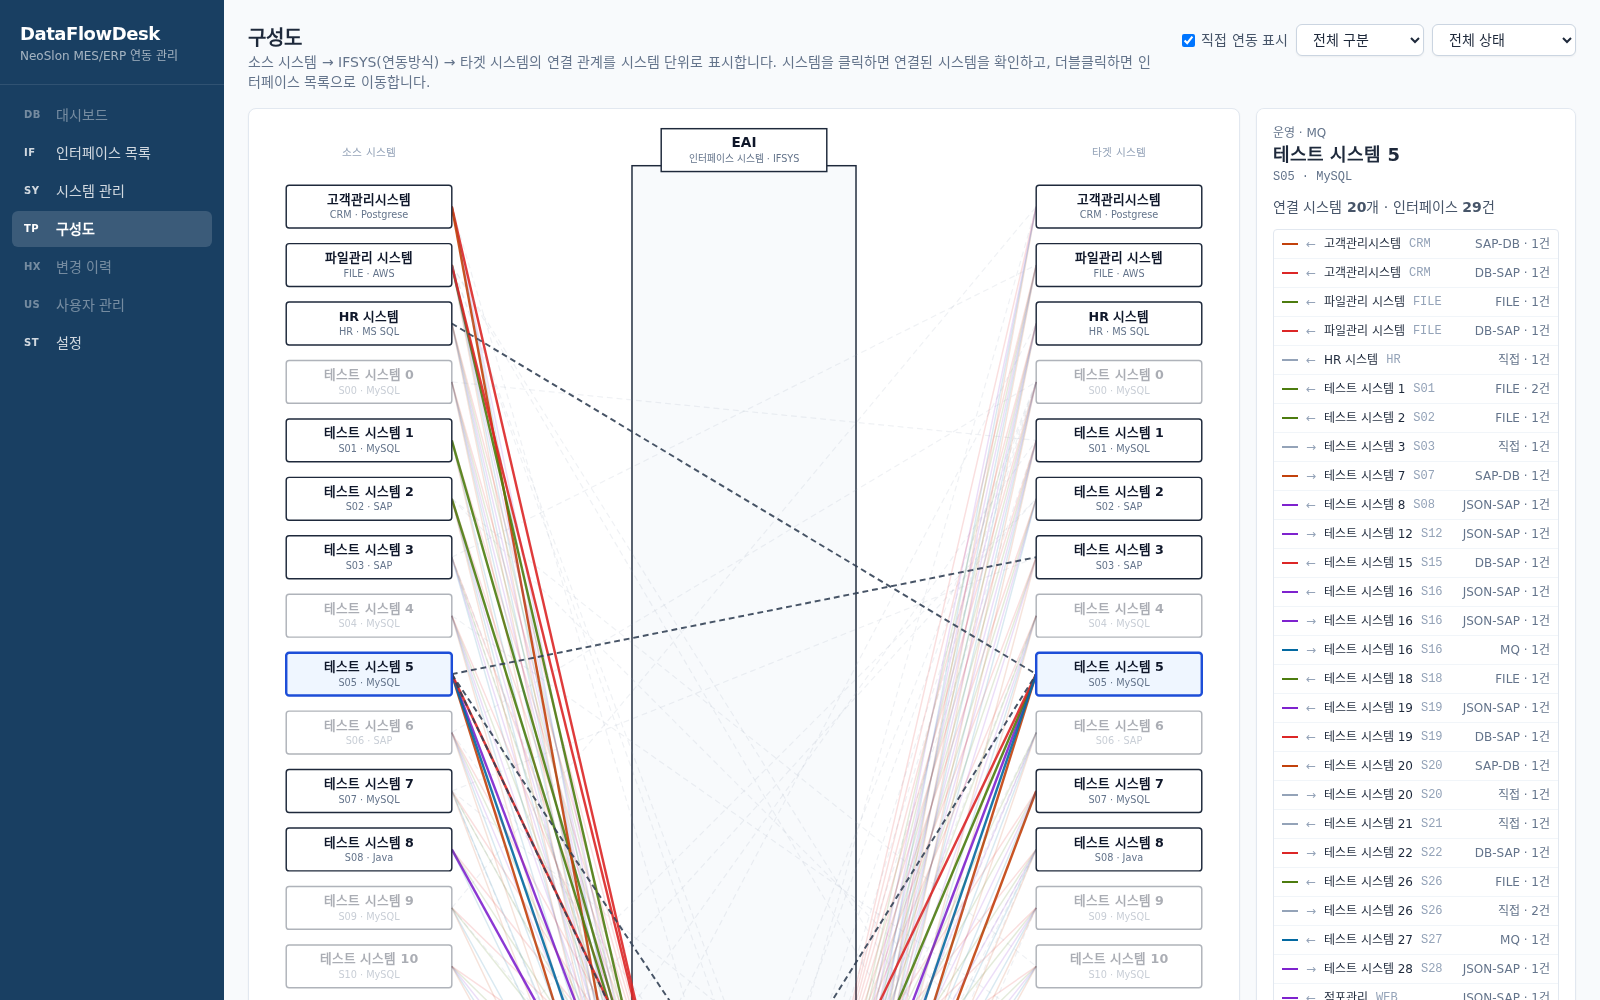
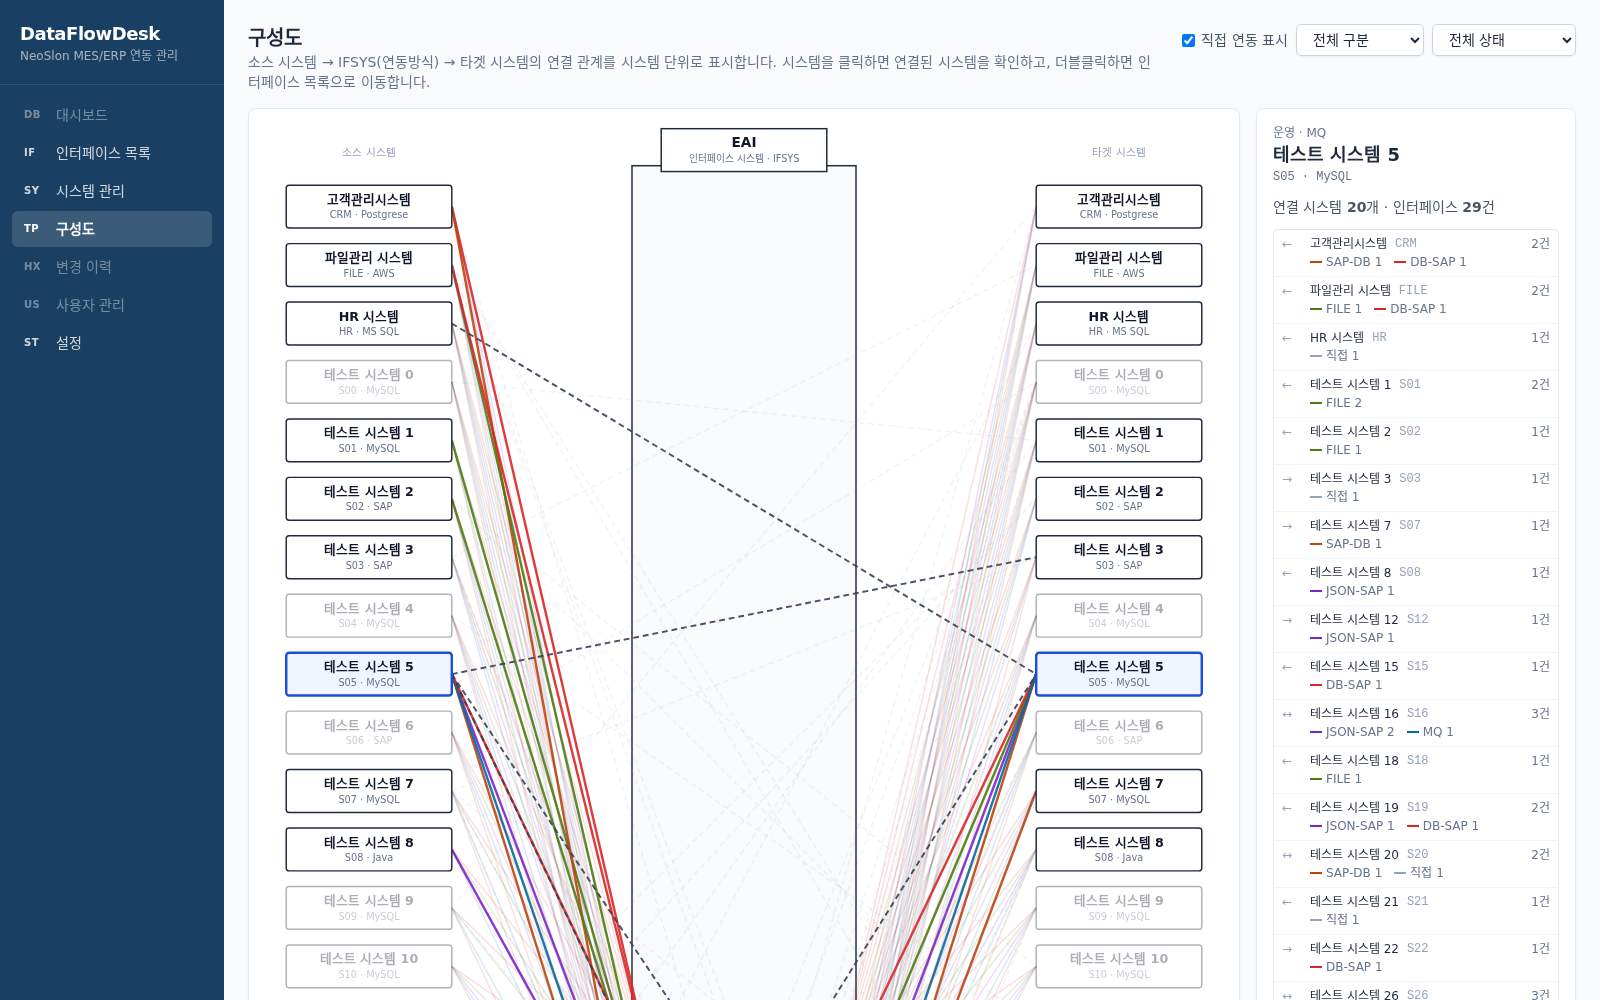
Topology panel: one row per connected system with per-method counts

Changed region(s): [[0.7812, 0.217, 0.9688, 1.0]]

diff --git a/frontend/src/pages/TopologyPage.tsx b/frontend/src/pages/TopologyPage.tsx
@@ -37,19 +37,40 @@ export function TopologyPage() {
   );
   const hasDirect = flows.some((f) => f.method === null);
 
-  /** Connected systems for the selected node, one row per (partner, method). */
+  /** Connected systems for the selected node: one row per partner, methods aggregated. */
   const partners = useMemo(() => {
     if (!selected) return [];
-    return flows
+    const acc = new Map<
+      number,
+      {
+        partner: TopologyNode;
+        outbound: boolean;
+        inbound: boolean;
+        methods: Map<string | null, number>;
+        count: number;
+      }
+    >();
+    flows
       .filter((f) => f.source.id === selected.id || f.target.id === selected.id)
-      .map((f) => ({
-        key: `${f.source.id}|${f.method ?? ''}|${f.target.id}`,
-        outbound: f.source.id === selected.id,
-        partner: f.source.id === selected.id ? f.target : f.source,
-        method: f.method,
-        count: f.count,
-      }))
-      .sort((a, b) => a.partner.system_code.localeCompare(b.partner.system_code));
+      .forEach((f) => {
+        const outbound = f.source.id === selected.id;
+        const partner = outbound ? f.target : f.source;
+        const row = acc.get(partner.id) ?? {
+          partner,
+          outbound: false,
+          inbound: false,
+          methods: new Map<string | null, number>(),
+          count: 0,
+        };
+        row.outbound = row.outbound || outbound;
+        row.inbound = row.inbound || !outbound;
+        row.methods.set(f.method, (row.methods.get(f.method) ?? 0) + f.count);
+        row.count += f.count;
+        acc.set(partner.id, row);
+      });
+    return Array.from(acc.values()).sort((a, b) =>
+      a.partner.system_code.localeCompare(b.partner.system_code),
+    );
   }, [flows, selected]);
 
   return (
@@ -155,22 +176,34 @@ export function TopologyPage() {
                 </div>
               </div>
               <div className="text-slate-600">
-                연결 시스템 <b>{new Set(partners.map((p) => p.partner.id)).size}</b>개 · 인터페이스{' '}
+                연결 시스템 <b>{partners.length}</b>개 · 인터페이스{' '}
                 <b>{selected.interface_count}</b>건
               </div>
               <ul className="divide-y divide-slate-100 rounded border border-slate-200">
                 {partners.map((p) => (
-                  <li key={p.key} className="flex items-center gap-2 px-2 py-1.5 text-xs">
-                    <span
-                      className="inline-block h-0.5 w-4 shrink-0"
-                      style={{ background: methodColor(p.method, methods) }}
-                    />
-                    <span className="text-slate-400">{p.outbound ? '→' : '←'}</span>
-                    <span className="truncate font-medium">{p.partner.system_name}</span>
-                    <span className="font-mono text-slate-400">{p.partner.system_code}</span>
-                    <span className="ml-auto shrink-0 text-slate-500">
-                      {p.method ?? '직접'} · {p.count}건
-                    </span>
+                  <li key={p.partner.id} className="px-2 py-1.5 text-xs">
+                    <div className="flex items-center gap-2">
+                      <span className="w-5 shrink-0 text-slate-400">
+                        {p.outbound && p.inbound ? '↔' : p.outbound ? '→' : '←'}
+                      </span>
+                      <span className="truncate font-medium">{p.partner.system_name}</span>
+                      <span className="font-mono text-slate-400">{p.partner.system_code}</span>
+                      <span className="ml-auto shrink-0 text-slate-500">{p.count}건</span>
+                    </div>
+                    <div className="mt-0.5 flex flex-wrap gap-x-3 gap-y-0.5 pl-7">
+                      {Array.from(p.methods.entries()).map(([m, c]) => (
+                        <span
+                          key={m ?? 'direct'}
+                          className="flex items-center gap-1 text-slate-500"
+                        >
+                          <span
+                            className="inline-block h-0.5 w-3"
+                            style={{ background: methodColor(m, methods) }}
+                          />
+                          {m ?? '직접'} {c}
+                        </span>
+                      ))}
+                    </div>
                   </li>
                 ))}
               </ul>
